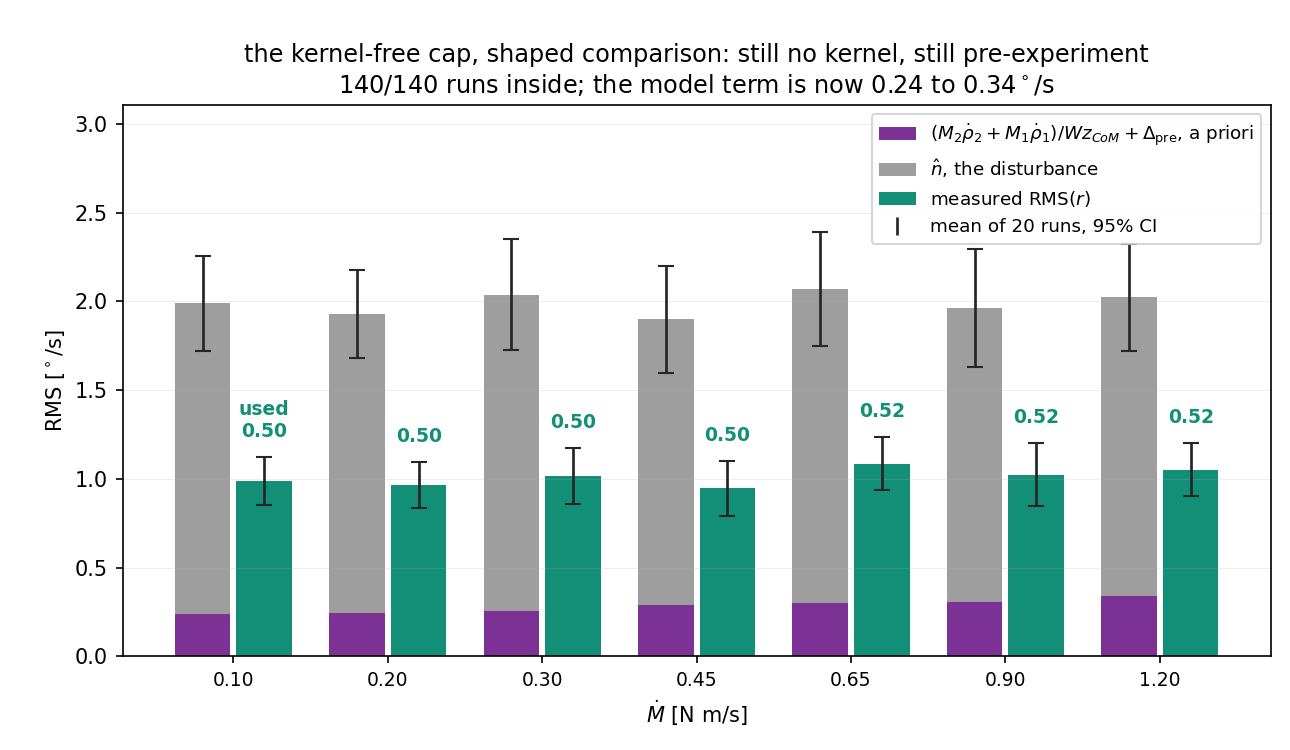
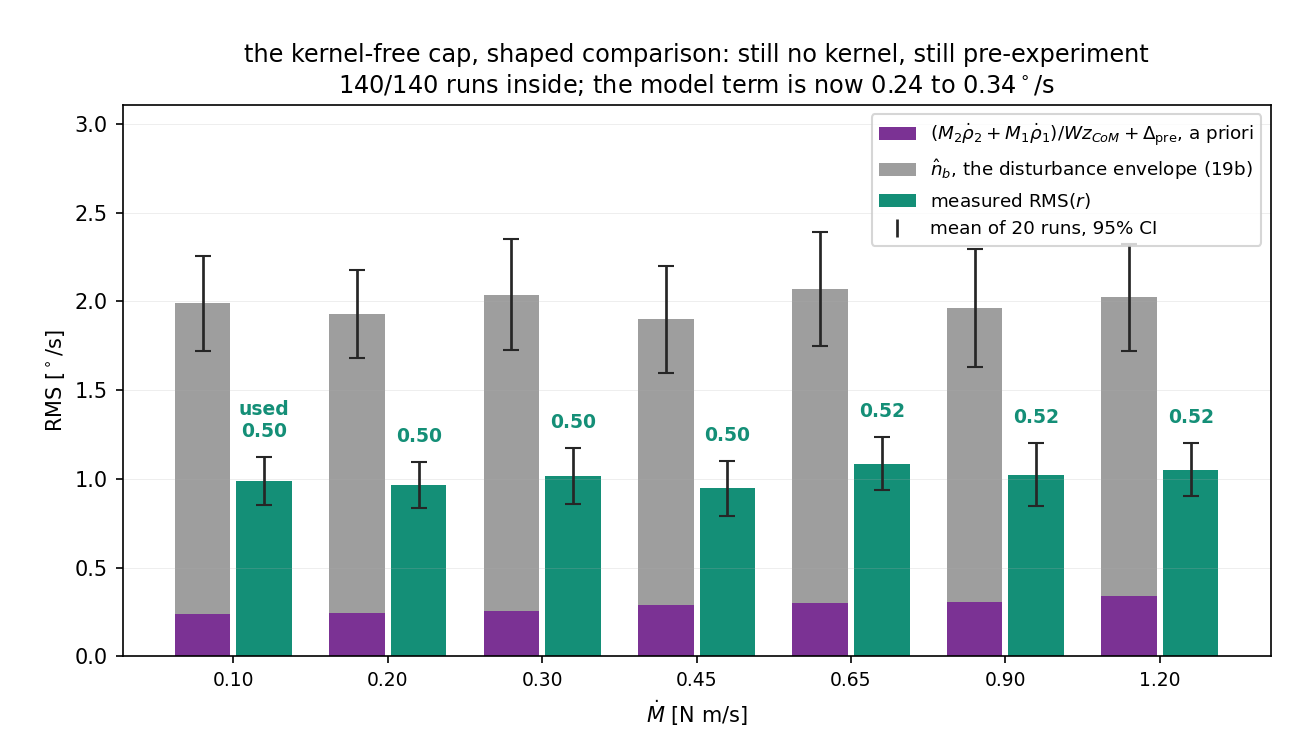
Refresh figure annotations for the true-rate anchor and envelope
Fig 3 (design sweep) was already computed with omega_max =
omega_nom(T) + E(T); panel (a) title now says the cap adds the noise
envelope n_b, and Fig 2's legend names n_b as the disturbance envelope
(19b). Both figures re-rendered.

Claude-Session: https://claude.ai/code/session_01BM6bcsm1ZtLtgegEeuFDVS

Changed region(s): [[0.6822, 0.2147, 0.9612, 0.3373]]

diff --git a/analysis/kernel_free_bound.py b/analysis/kernel_free_bound.py
@@ -218,7 +218,7 @@ def main():
            label=r'$(M_2\dot\rho_2+M_1\dot\rho_1)/Wz_{CoM}+\Delta_{\rm pre}$'
                  ', a priori')
     ax.bar(i - 0.20, nz, 0.36, bottom=de, color=C_N,
-           label=r'$\hat n$, the disturbance')
+           label=r'$\hat n_b$, the disturbance envelope (19b)')
     ax.errorbar(i - 0.20, cap, yerr=cap_ci, fmt='none', ecolor='0.15',
                 elinewidth=1.3, capsize=4, zorder=5)
     ax.bar(i + 0.20, mm, 0.36, color=C_MEAS,

diff --git a/analysis/design_range_chart.py b/analysis/design_range_chart.py
@@ -139,7 +139,7 @@ def main():
     a1.set_ylim(0, hi(rms).max() * 1.18)
     a1.set_title(r'(a) bound on $\mathrm{RMS}(\delta e_\omega)$, the model'
                  ' term of (20)\n(17)$+$(18) over the design box;'
-                 ' the cap adds $\hat n$ on top', fontsize=11)
+                 ' the cap adds the noise envelope $\hat n_b$ on top', fontsize=11)
     a1.grid(alpha=0.22, lw=0.4)
 
     a2.fill_between(RATES, lo(dmc), hi(dmc), color=C_B, alpha=0.18, lw=0)
